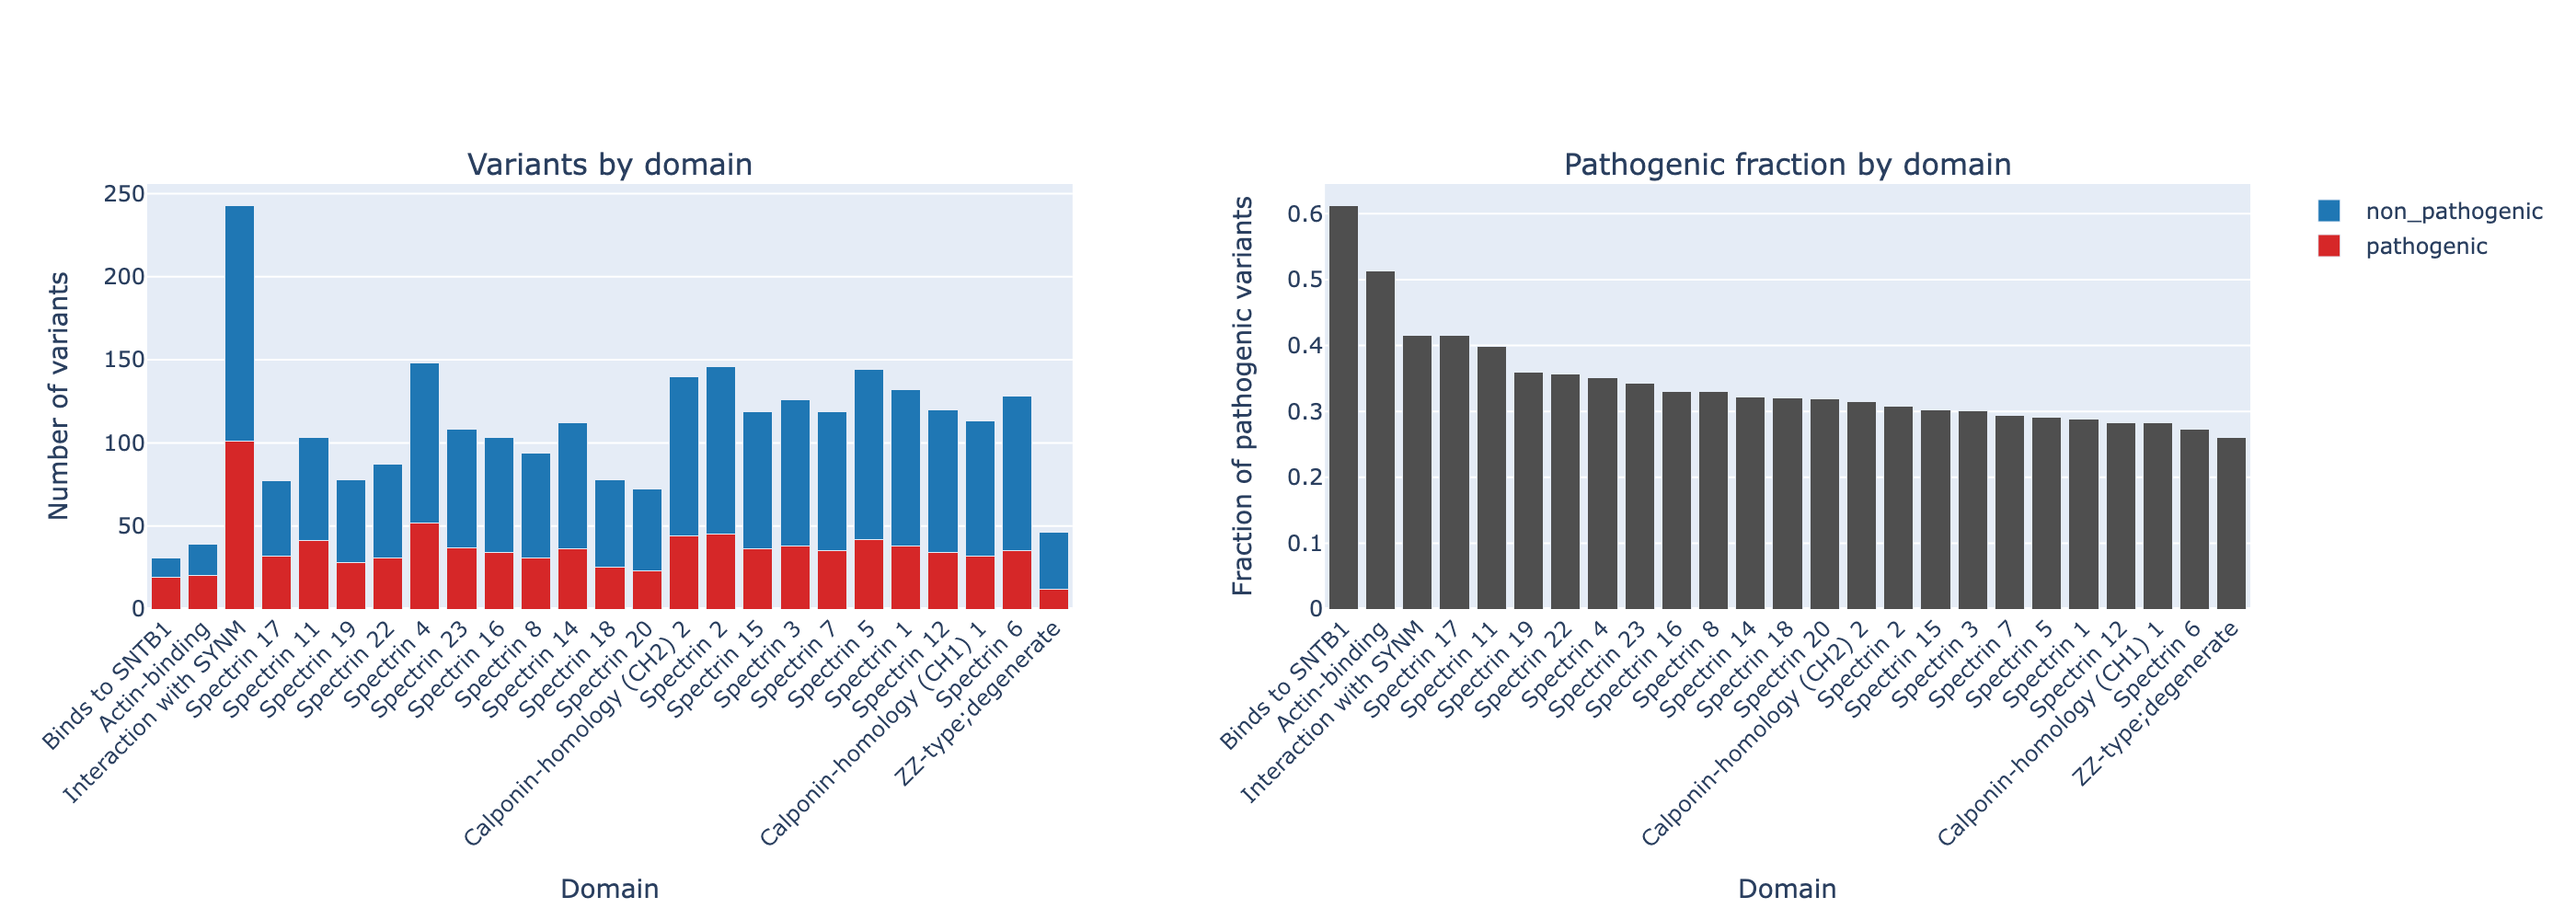
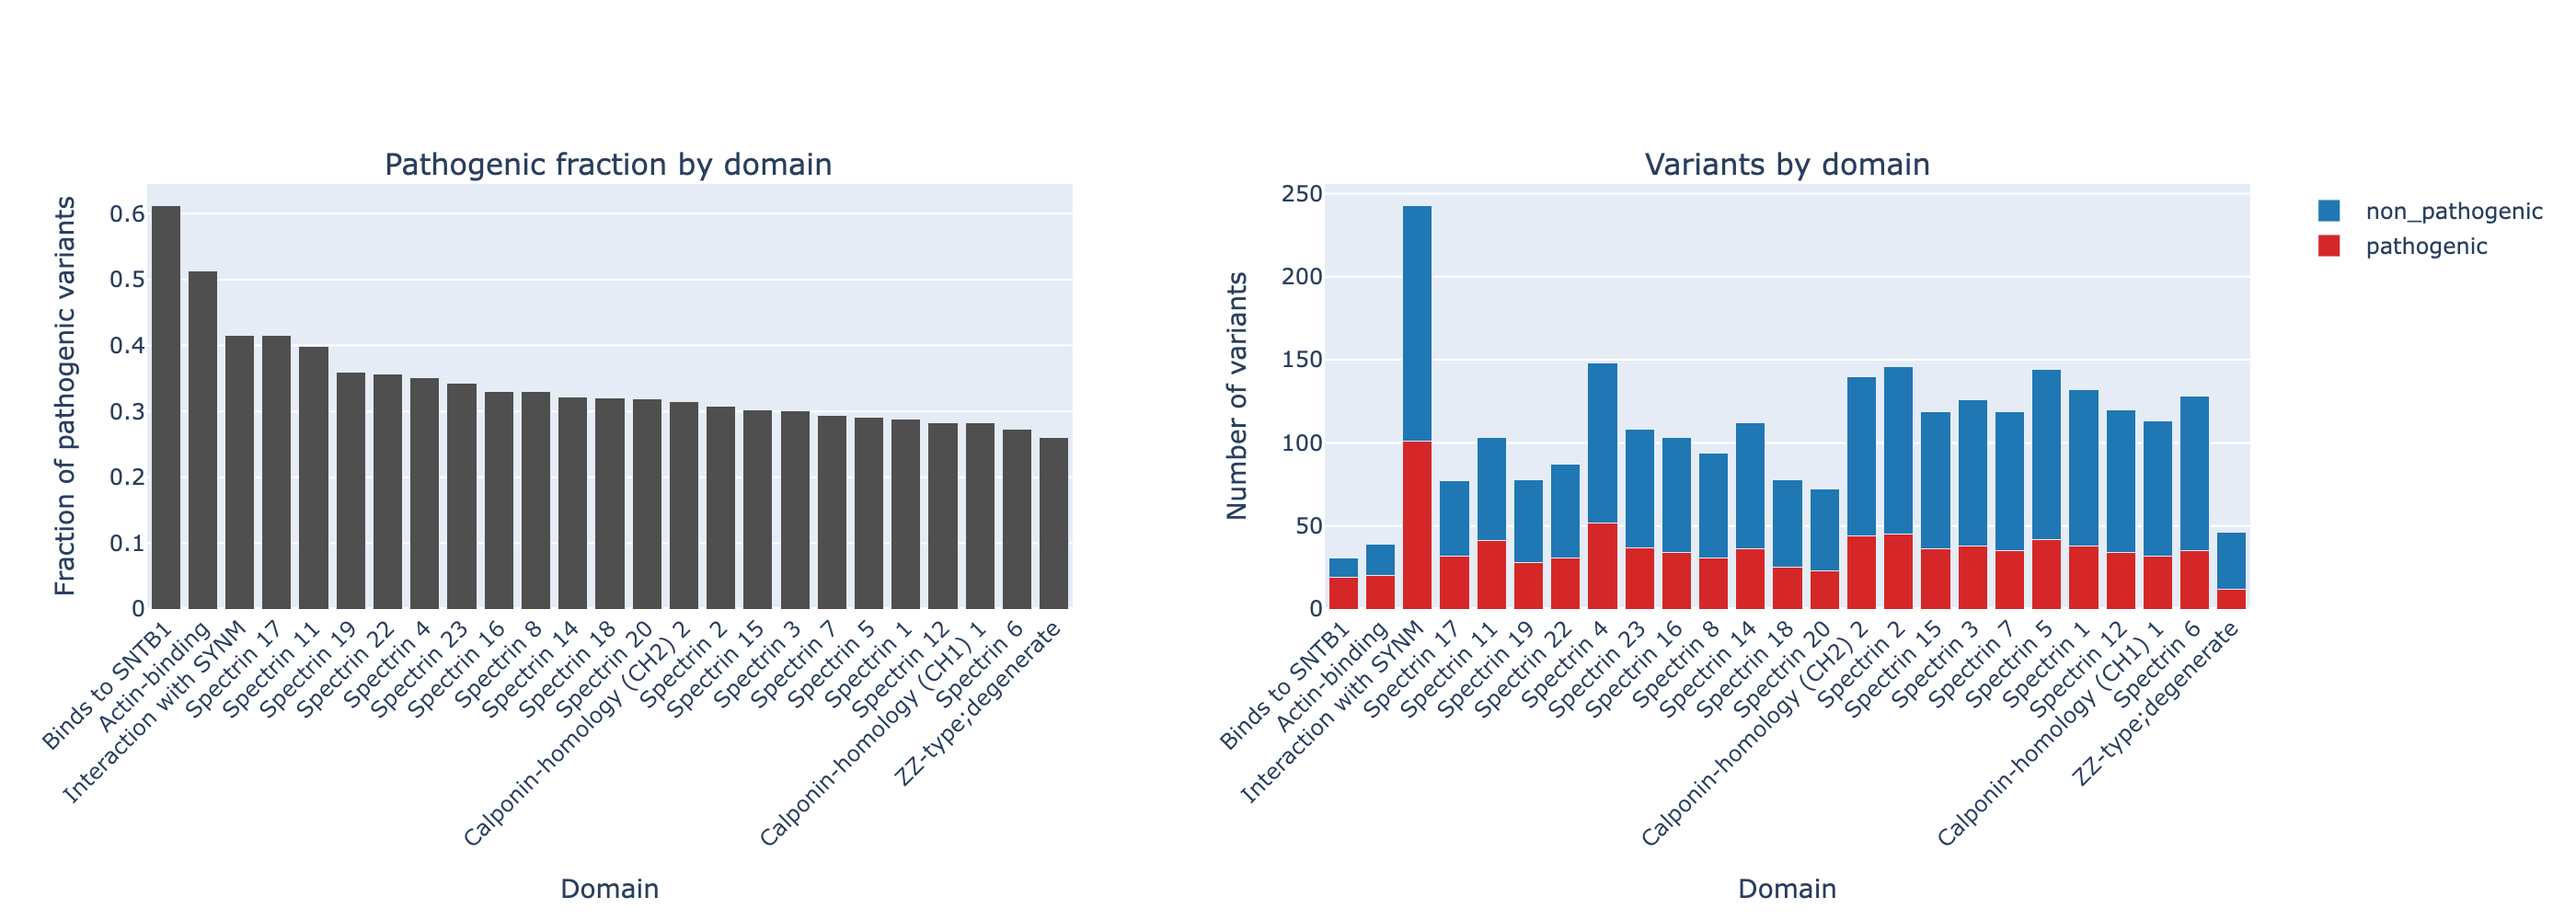
Updated the 1XX plot, added 2XX plot regarding the reading frame rule

diff --git a/src/exploratory.py b/src/exploratory.py
@@ -166,39 +166,13 @@ def save_domain_distrib_plot(df: pd.DataFrame) -> pd.DataFrame:
         rows=1,
         cols=2,
         subplot_titles=[
-            "Variants by domain",
-            "Pathogenic fraction by domain"
+            "Pathogenic fraction by domain",
+            "Variants by domain"
         ],
         horizontal_spacing=0.12
     )
 
-    # Figure 1.1 - pathogenic variants
-    fig.add_trace(
-        go.Bar(
-            x=x_order,
-            y=top_domains["pathogenic"],
-            name="pathogenic",
-            marker_color="#d62728",
-            customdata=top_domains[["non_pathogenic", "total", "pathogenic_fraction"]],
-        ),
-        row=1,
-        col=1
-    )
-
-    # Figure 1.2 - non-pathogenic variants
-    fig.add_trace(
-        go.Bar(
-            x=x_order,
-            y=top_domains["non_pathogenic"],
-            name="non_pathogenic",
-            marker_color="#1f77b4",
-            customdata=top_domains[["pathogenic", "total", "pathogenic_fraction"]],
-        ),
-        row=1,
-        col=1
-    )
-
-    # Figure 2 - pathogenic fraction
+    # Figure 1 - pathogenic fraction
     fig.add_trace(
         go.Bar(
             x=x_order,
@@ -209,11 +183,38 @@ def save_domain_distrib_plot(df: pd.DataFrame) -> pd.DataFrame:
             customdata=top_domains[["pathogenic", "non_pathogenic", "total"]],
         ),
         row=1,
+        col=1
+    )
+
+    # Figure 2.1 - pathogenic variants
+    fig.add_trace(
+        go.Bar(
+            x=x_order,
+            y=top_domains["pathogenic"],
+            name="pathogenic",
+            marker_color="#d62728",
+            customdata=top_domains[["non_pathogenic", "total", "pathogenic_fraction"]],
+        ),
+        row=1,
         col=2
     )
 
-    fig.update_yaxes(title_text="Number of variants", row=1, col=1)
-    fig.update_yaxes(title_text="Fraction of pathogenic variants", row=1, col=2)
+    # Figure 2.2 - non-pathogenic variants
+    fig.add_trace(
+        go.Bar(
+            x=x_order,
+            y=top_domains["non_pathogenic"],
+            name="non_pathogenic",
+            marker_color="#1f77b4",
+            customdata=top_domains[["pathogenic", "total", "pathogenic_fraction"]],
+        ),
+        row=1,
+        col=2
+    )
+
+    fig.update_yaxes(title_text="Fraction of pathogenic variants", row=1, col=1)
+    fig.update_yaxes(title_text="Number of variants", row=1, col=2)
+
 
     fig.update_layout(
         barmode="stack",
@@ -243,6 +244,90 @@ def save_domain_distrib_plot(df: pd.DataFrame) -> pd.DataFrame:
 
     return domain_counts
 
+# Main plot #3: Histograms of frame status vs. phenotype class
+def save_reading_frame_plot(df: pd.DataFrame) -> pd.DataFrame:
+    tmp = df.dropna(subset=["frame_status", "phenotype_class"]).copy()
+
+    # Contingency table
+    frame_counts = (
+        tmp.groupby(["frame_status", "phenotype_class"])
+        .size()
+        .unstack(fill_value=0)
+        .reset_index()
+    )
+
+    frame_counts["total"] = frame_counts.iloc[:,1:].sum(axis=1)
+
+    # Counting proportions
+    for col in frame_counts.columns:
+        if col not in ["frame_status", "total"]:
+            frame_counts[col + "_prop"] = frame_counts[col] / frame_counts["total"]
+
+    phenotypes = [c for c in frame_counts.columns if c not in ["frame_status","total"] and not c.endswith("_prop")]
+    phenotypes_prop = [p + "_prop" for p in phenotypes]
+
+    x = frame_counts["frame_status"]
+
+    fig = make_subplots(
+        rows=1,
+        cols=2,
+        subplot_titles=[
+            "Reading frame rule: counts",
+            "Reading frame rule: proportions"
+        ],
+        horizontal_spacing=0.12
+    )
+
+    colors = {
+        "DMD": "#e74c3c",
+        "BMD": "#4c6ef5",
+        "other": "#afafaf"
+    }
+
+
+    # Figure 1 - Reading frame rule: counts
+    for p in phenotypes:
+        fig.add_trace(
+            go.Bar(
+                x=x,
+                y=frame_counts[p],
+                name=p,
+                marker_color=colors.get(p, None)
+            ),
+            row=1,
+            col=1
+        )
+
+    # Figure 2 - Reading frame rule: proportions
+    for p, pp in zip(phenotypes, phenotypes_prop):
+        fig.add_trace(
+            go.Bar(
+                x=x,
+                y=frame_counts[pp],
+                name=p,
+                marker_color=colors.get(p, None),
+                showlegend=False
+            ),
+            row=1,
+            col=2
+        )
+
+    fig.update_layout(
+        barmode="stack",
+        width=1400,
+        height=600,
+        title="Reading frame rule: frame status vs phenotype"
+    )
+
+    fig.update_yaxes(title="Number of variants", row=1, col=1)
+    fig.update_yaxes(title="Proportion of variants", row=1, col=2)
+
+    fig.update_xaxes(title="Frame status")
+
+    fig.write_image(FIGURES / "2XX_reading_frame_rule.png", scale=2)
+
+    return frame_counts
+
 # Main function
 def run_exploratory() -> None:
     df = load_annotated()
@@ -250,6 +335,7 @@ def run_exploratory() -> None:
 
     exon_table = save_exon_distrib_plot(df)
     domain_table = save_domain_distrib_plot(df)
+    reading_frame_table = save_reading_frame_plot(df)
 
     print(f"Saved figures to: {FIGURES}")
     print(exon_table)
